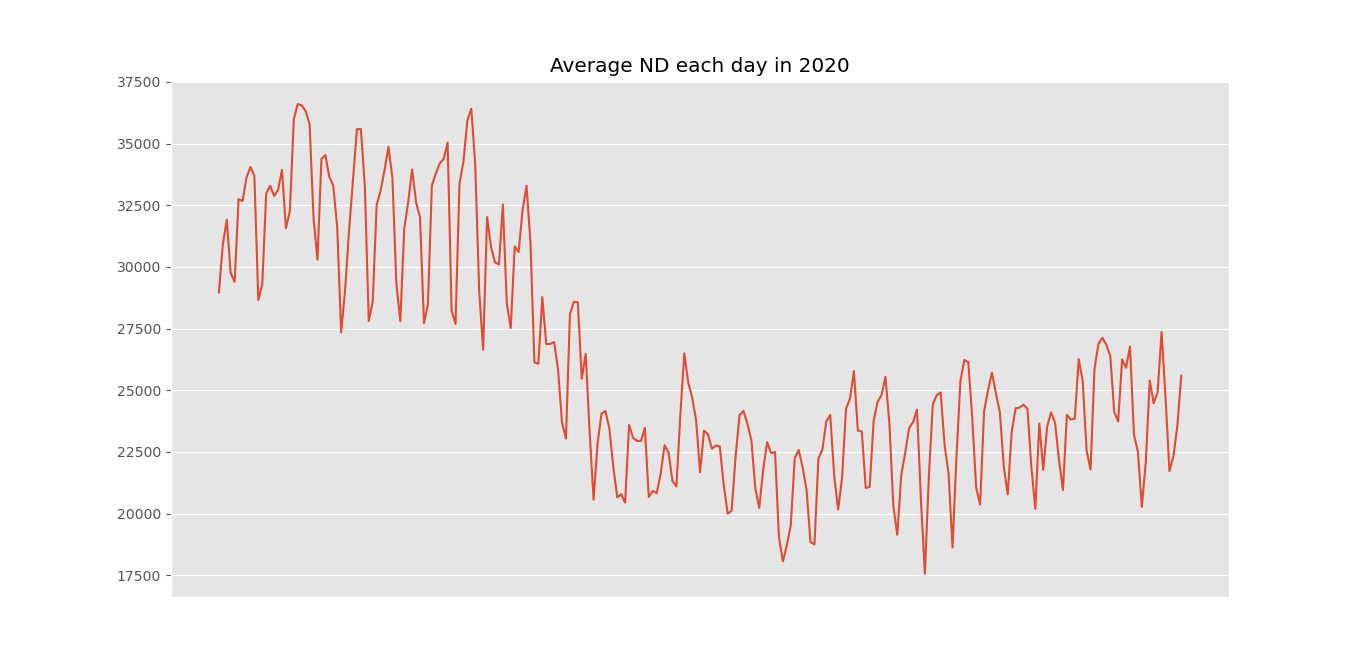
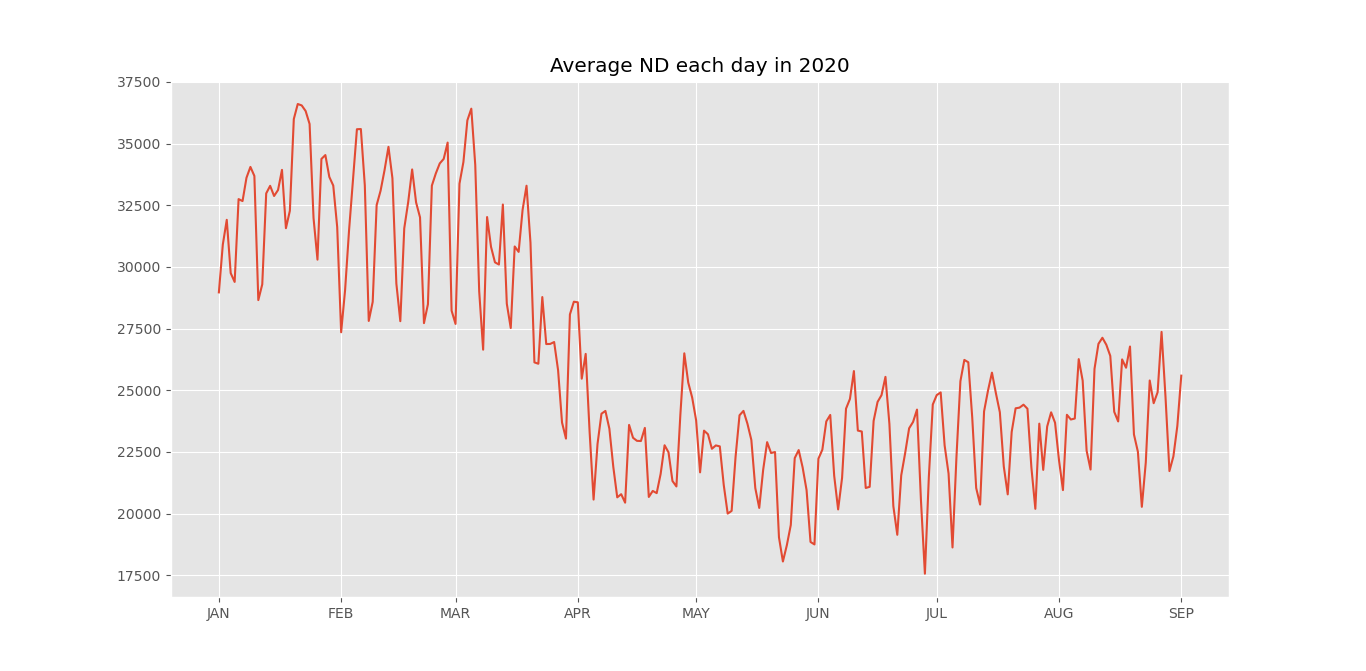
More Graphs

diff --git a/Model.py b/Model.py
@@ -17,6 +17,7 @@ from sklearn.linear_model import LinearRegression
 plt.style.use('ggplot')
 #plt.style.use('dark_background')
 ESO_Data = pd.read_csv("modelDataSet.csv")
+ESO_Datafull = pd.read_csv("modelDataSet.csv")
 ESO_Data = ESO_Data.rename(columns={"dailyND":"Y"})
 ##Feature Selection 
 
@@ -30,12 +31,12 @@ print(ESO_Data.head())
 ##Should scale the data
 
 ## scale X
-ESO_Data_scalerX = preprocessing.RobustScaler(quantile_range=(25.0, 75.0))
-X = ESO_Data_scalerX.fit_transform(ESO_Data.drop("Y", axis=1))
-ESO_Data_scaled= pd.DataFrame(X, columns=ESO_Data.drop("Y", axis=1).columns, index=ESO_Data.index)
+#ESO_Data_scalerX = preprocessing.RobustScaler(quantile_range=(25.0, 75.0))
+#X = ESO_Data_scalerX.fit_transform(ESO_Data.drop("Y", axis=1))
+#ESO_Data_scaled= pd.DataFrame(X, columns=ESO_Data.drop("Y", axis=1).columns, index=ESO_Data.index)
 ## scale Y
-ESO_Data_scalerY = preprocessing.RobustScaler(quantile_range=(25.0, 75.0))
-ESO_Data_scaled["Y"] = ESO_Data_scalerY.fit_transform(ESO_Data["Y"].values.reshape(-1,1))
+#ESO_Data_scalerY = preprocessing.RobustScaler(quantile_range=(25.0, 75.0))
+#ESO_Data_scaled["Y"] = ESO_Data_scalerY.fit_transform(ESO_Data["Y"].values.reshape(-1,1))
 #print(dtf_scaled.head())
 
 #ESO_Data = dtf_scaled
@@ -81,6 +82,8 @@ plt.title('K-Fold Validation on training set')
 plt.legend()
 #plt.show()
 
+model = model.fit(X_train,y_train)
+
 ##*************Test***************
 predicted = model.predict(X_test)
 print(model.coef_)
@@ -115,7 +118,25 @@ ax[1].grid(True)
 ax[1].set(xlabel="Predicted", ylabel="Residuals", title="Predicted vs Residuals")
 ax[1].hlines(y=0, xmin=np.min(predicted), xmax=np.max(predicted))
 ax[1].legend()
+
+
+
+
+fig = plt.figure()
+ax = plt.axes()
+#ax.axes.get_xaxis().set_ticks([])
+#ax.axes.get_xaxis().set_ticks()
+ax.set_xticks([0,31,60,91,121,152,182,213,244]) # values
+ax.set_xticklabels(["JAN","FEB","MAR","APR","MAY","JUN","JUL","AUG","SEP"]) # labels
+#ax.set_xticks(np.arange(3), ['Tom', 'Dick', 'Sue'])
+print(ax.axes.get_xaxis())
+box = "Legend:\nYellow- Predicted ND\nRed- Actual ND"
+ax.text(0.6, 0.975, box, transform=ax.transAxes, fontsize=10, va='top', ha="left", bbox=dict(boxstyle='round', facecolor='white', alpha=1))
+ax.set_title('Predicted vs Actual ND')
+ax.plot(ESO_Datafull['SETTLEMENT_DATE'], model.predict(ESO_Data[X_names].values), color = colours[0]);
+ax.plot(ESO_Datafull['SETTLEMENT_DATE'], ESO_Datafull['dailyND'],color = colours[1]);
+
+#ax.plot(ESO_Datafull['SETTLEMENT_DATE'], ESO_Datafull['dailyND2019'], color = colours[3]);
+#ax.plot(ESO_Datafull['SETTLEMENT_DATE'], ESO_Datafull['dailyND2019Adj'], color = colours[3]);
 plt.show()
-
-
 

diff --git a/dataAnalysis.py b/dataAnalysis.py
@@ -8,12 +8,19 @@ import seaborn as sns
 import scipy
 import statsmodels.formula.api as smf
 import statsmodels.api as sm
+##Preprocessing 
+from sklearn import preprocessing
+
 
 ESO_Data = pd.read_csv("modelDataSet.csv")
 #******************Describing Data***********************
 print("******************Describing Data***********************")
+print("weekday\n")
 print(ESO_Data[ESO_Data["Week_Day"]==0].dailyND.describe())  
+print("weekend\n")
 print(ESO_Data[ESO_Data["Week_Day"]==1].dailyND.describe())  
+print("London_Avg_Temp")
+print(ESO_Data["London_Avg_Temp"].describe())  
 print("")
 
 #******************Correlation Testing***********************
@@ -63,7 +70,27 @@ fig = plt.figure()
 ax = plt.axes()
 ax.axes.get_xaxis().set_ticks([])
 ax.set_title('Average ND each day in 2020')
+ax.set_xticks([0,31,60,91,121,152,182,213,244]) # values
+ax.set_xticklabels(["JAN","FEB","MAR","APR","MAY","JUN","JUL","AUG","SEP"]) # labels
 ax.plot(ESO_Data['SETTLEMENT_DATE'], ESO_Data['dailyND']);
+
+#Should change to minMax this is a bad scaling
+def robustScaler(df, column):
+	df = preprocessing.RobustScaler(quantile_range=(25.0, 75.0))
+	return df.fit_transform(ESO_Data[column].values.reshape(-1,1))
+	
+
+fig = plt.figure()
+ax = plt.axes()
+ax.axes.get_xaxis().set_ticks([])
+ax.set_title('ND compared to London Avg Temp throughout the year (scaled)')
+box = "legend:\nRed- London average Temp ND\nBlue- Actual ND"
+ax.text(0.4, 0.975, box, transform=ax.transAxes, fontsize=10, va='top', ha="left", bbox=dict(boxstyle='round', facecolor='white', alpha=1))
+ax.set_xticks([0,31,60,91,121,152,182,213,244]) # values
+ax.set_xticklabels(["JAN","FEB","MAR","APR","MAY","JUN","JUL","AUG","SEP"]) # labels
+ax.plot(ESO_Data['SETTLEMENT_DATE'], robustScaler(ESO_Data,"London_Avg_Temp"));
+ax.plot(ESO_Data['SETTLEMENT_DATE'], robustScaler(ESO_Data,"dailyND"));
+#print(robustScaler(ESO_Data,"London_Avg_Temp"))
 
 
 
